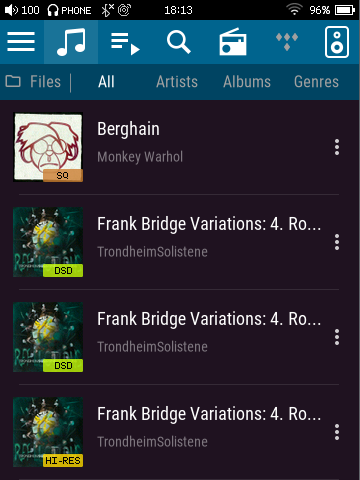
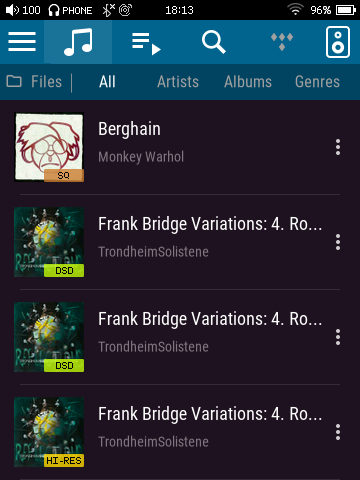
Update readme and screenshots

diff --git a/.github/readme.md b/.github/readme.md
@@ -10,7 +10,6 @@ If you encounter any issues or have other feedback, feel free to open an [issue]
 ## Improvements
 A lot of (tiny) improvements were made. But the big ones are listed here
 
-* Add Radio module icon on the top "module bar"
 * New player design (Fixed display of album art, no more chopped-off bits)
 * Improved keyboard layout/coloring
 * Scrolling text when text too long (The players firmware doesn't support this in lists unfortunately)
@@ -19,13 +18,21 @@ A lot of (tiny) improvements were made. But the big ones are listed here
 * Made all top-bar icons and labels "Pixelized" instead of weird combination of all sorts of fonts/styles
 * Add extensive phone/line/bluetooth protocol out indicator to top-bar
 * Add music sound quality labels on albumart (instead of strange icons/dots under song title)
-* Removed volume slider from shortcut menu to prevent accidental volume changes [Use buttons on the side ;)]
+* Removed volume slider from shortcut menu to prevent accidental volume changes (Use buttons on the side 😋)
 * Optimized for English language
 * Fixed a lot of tiny things (alignment, touch activation areas etc)
 
 
 ## Changelog
-* Last update: 1-8-2021
+
+**Update: 28-12-2022**
+* Upgraded to base firmware 2.0, legacy versions available in GIT history.
+* Had to remove radio shortcut/tab (due to firmware changes)
+* Fixed "online channel" selection
+* Fixed language selection
+
+
+**Update: 1-8-2021**
 * Add support for playspeed and section repeat functions
 * Upgraded to base firmware 1.6, legacy 1.5 based version available in GIT history.
 * Fixed lyrics display
